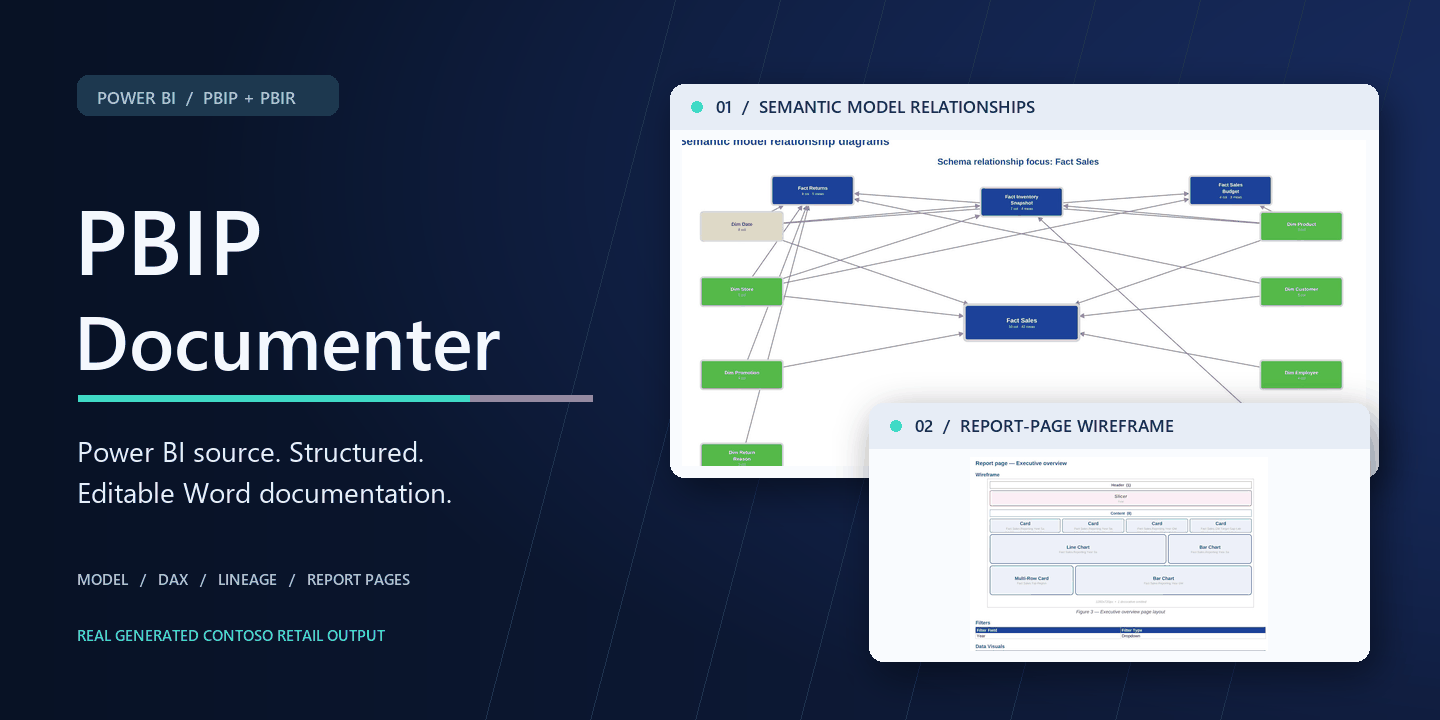
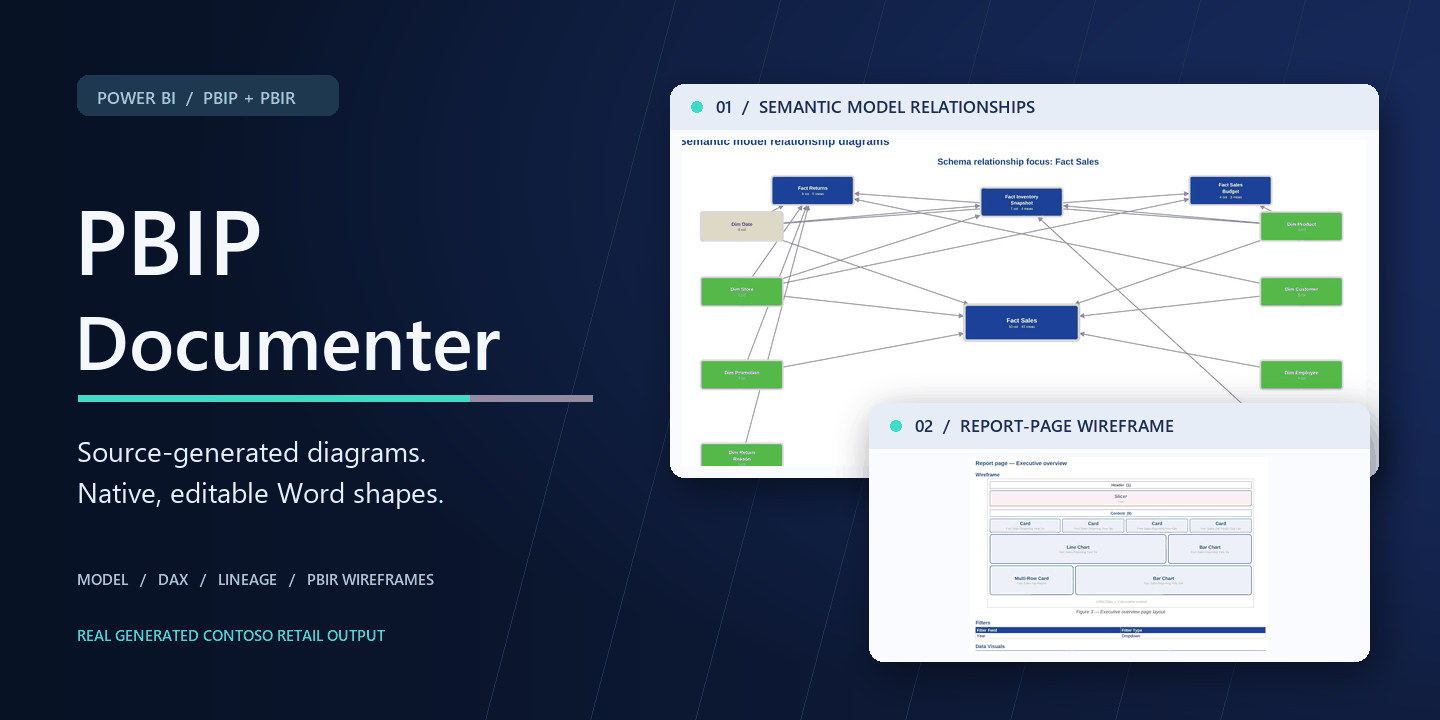
Lead with native editable Power BI diagrams and verified capabilities (#26)

Changed region(s): [[0.0312, 0.6111, 0.3125, 0.6417], [0.0625, 0.6722, 0.3125, 0.7028], [0.2188, 0.7944, 0.3125, 0.825]]

diff --git a/scripts/ci_docx_generation_smoke.py b/scripts/ci_docx_generation_smoke.py
@@ -6,6 +6,7 @@ import argparse
 import subprocess
 import sys
 import tempfile
+import xml.etree.ElementTree as ET
 from pathlib import Path
 from zipfile import ZipFile
 
@@ -21,6 +22,26 @@ def _assert_valid_docx(path: Path) -> None:
     with ZipFile(path) as archive:
         assert archive.testzip() is None, f"Corrupt DOCX archive: {path}"
         assert "word/document.xml" in archive.namelist()
+        xml_root = ET.fromstring(archive.read("word/document.xml"))
+        # Public fixture must contain real editable DrawingML groups/shapes,
+        # rather than exporting static screenshots of schema/page wireframes.
+        namespaces = {
+            "wpg": "http://schemas.microsoft.com/office/word/2010/wordprocessingGroup",
+            "wps": "http://schemas.microsoft.com/office/word/2010/wordprocessingShape",
+            "a": "http://schemas.openxmlformats.org/drawingml/2006/main",
+        }
+        diagrams = xml_root.findall(".//wpg:wgp", namespaces)
+        shapes = xml_root.findall(".//wps:wsp", namespaces)
+        starts = xml_root.findall(".//a:stCxn", namespaces)
+        ends = xml_root.findall(".//a:endCxn", namespaces)
+        assert len(diagrams) >= 3, f"Missing native Word diagram groups: {path}"
+        assert len(shapes) >= 50, f"Expected editable Word shapes, not rasterized screenshots: {path}"
+        assert len(starts) >= 10 and len(starts) == len(ends), (
+            f"Missing or unmatched DrawingML connector endpoints: {path}"
+        )
+        assert not any(f.startswith("word/media/") for f in archive.namelist()), (
+            f"Public Contoso fixture unexpectedly embeds raster images: {path}"
+        )
 
     doc = Document(path)
     from docx.oxml.ns import qn

diff --git a/scripts/build_readme_hero.py b/scripts/build_readme_hero.py
@@ -108,9 +108,9 @@ def create(root: Path = BASE) -> dict[str, Path]:
     draw.text((74, 287), "Documenter", font=typography(76, True), fill=TEXT)
     draw.rectangle((78, 395, 470, 401), fill=MINT)
     draw.rectangle((470, 395, 592, 401), fill=PINK)
-    draw.text((77, 431), "Power BI source. Structured.", font=typography(28), fill=(229, 239, 250))
-    draw.text((77, 472), "Editable Word documentation.", font=typography(28), fill=(229, 239, 250))
-    draw.text((77, 568), "MODEL   /   DAX   /   LINEAGE   /   REPORT PAGES",
+    draw.text((77, 431), "Source-generated diagrams.", font=typography(28), fill=(229, 239, 250))
+    draw.text((77, 472), "Native, editable Word shapes.", font=typography(28), fill=(229, 239, 250))
+    draw.text((77, 568), "MODEL   /   DAX   /   LINEAGE   /   PBIR WIREFRAMES",
               font=typography(15, True), fill=MUTED)
     draw.text((77, 624), "REAL GENERATED CONTOSO RETAIL OUTPUT", font=typography(15, True), fill=MINT)
 

diff --git a/README.md b/README.md
@@ -2,7 +2,7 @@
   <img src="docs/images/hero-product.png" alt="PBIP Documenter — semantic-model relationships and report-page wireframes taken from real generated Word documents" width="100%">
 </p>
 
-<p align="center"><strong>Turn Power BI project files into useful, editable Word documentation.</strong></p>
+<p align="center"><strong>Generate complete Power BI specifications with editable native Word diagrams ? not flattened pictures.</strong></p>
 <p align="center">
   <a href="https://github.com/analienx/pbidocumenter/actions/workflows/ci.yml"><img alt="CI" src="https://github.com/analienx/pbidocumenter/actions/workflows/ci.yml/badge.svg"></a>
   <a href="LICENSE"><img alt="Apache-2.0 license" src="https://img.shields.io/badge/license-Apache--2.0-304C70"></a>
@@ -16,9 +16,22 @@
 
 ---
 
-## The documentation you wish every Power BI report came with
+## Reverse-engineer Power BI into editable technical documentation
 
-Give PBIP Documenter a local **PBIP/PBIR project**. It reads the semantic model and report definition, then builds a structured Microsoft Word specification—with **model relationships, DAX, Power Query, report-page wireframes and handover details**. No tenant connection or Power BI Desktop interaction is required for the core workflow.
+Point PBIP Documenter at a local **PBIP / PBIR / TMDL project**. It reads the semantic model and report structure, then builds a Word specification with **diagrams generated from your actual source**. No Power BI Desktop or tenant connection is required for core generation.
+
+### Six defining capabilities
+
+| Capability | What you get |
+| :-- | :-- |
+| **Native editable Word diagrams** | **DrawingML shapes, connectors and text**, not flattened PNGs: model relationships, source lineage and report-page wireframes. |
+| **Data lineage and model architecture** | Source ? staging queries ? loaded tables ? report usage, plus relationships, columns, roles and partitions. |
+| **DAX and Power Query documentation** | Measure inventories, DAX expressions, M transformations, hierarchies and calculation groups where present; expanded source code in full mode. |
+| **Report reverse-engineering** | PBIR-derived page wireframes, visual types/positions, field bindings, filters, bookmarks and navigation actions. |
+| **Technical quality insights** | Categorized technical observations, warnings and review opportunities for maintenance and handover. |
+| **Agent-ready Word handover** | Concise/full DOCX with native headings, tables, linked contents and clearly labeled owner-confirmation fields; source-read-only CLI. |
+
+**?Dynamic? means generated from the PBIP source at runtime.** In the resulting Word document, diagrams are editable native shapes and connectors?not screenshot images. The DOCX is a snapshot, **not a live-synced connection** to future PBIP changes. [How DrawingML works](docs/ARCHITECTURE.md#native-word-diagrams--not-static-images).
 
 ## Explore an actual generated document
 
@@ -32,7 +45,9 @@ Open the complete example before installing anything. All three files were gener
 | **Semantic-model relationships** | **Report-page layout and bindings** |
 | :--: | :--: |
 | [![Cropped detail from generated Word model-relationship page](docs/images/showcase/detail-lineage.jpg)](docs/images/showcase/model-lineage.jpg) | [![Cropped detail from generated Word report-page wireframe](docs/images/showcase/detail-wireframe.jpg)](docs/images/showcase/report-wireframe.jpg) |
-| *Actual DOCX output · model lineage* | *Actual DOCX output · PBIR wireframe, not a live dashboard screenshot* |
+| *Native Word shapes and relationship connectors* | *Native Word shapes and PBIR-derived layout* |
+
+**These images are only GitHub previews.** The [actual DOCX](docs/samples/Contoso-Retail-full.docx) has native Word DrawingML diagrams. Its generated Contoso example contains **10 grouped diagrams, 266 native shape elements, 78 connector endpoint pairs and zero embedded image files**. The installed-package CI now verifies these structures.
 
 <sub>Source-based acceptance for this example: **12 tables · 55 measures · 19 relationships · 5 pages · 54 visuals**. Crops above come directly from the original generated document pages. [Source and screenshot evidence](docs/EXAMPLES.md#what-was-independently-checked) · [File checksums](docs/samples/README.md).</sub>
 
@@ -49,16 +64,7 @@ That's it: open the editable `design-specification.docx` in Word. Prefer a short
 
 > **Distribution:** Install directly from GitHub as shown above. A PyPI package for this project has not been verified, so this README does not claim a published PyPI release. The [permanent samples](docs/samples/README.md) were generated from a specifically recorded commit, and output may evolve on `main`.
 
-## What you get
-
-| Document section | Based on |
-| :-- | :-- |
-| **Model & data architecture** — tables, columns, measures, relationships, partitions, roles and lineage | TMDL and model files |
-| **Calculations & transformations** — DAX inventories, plus full-code detail in full mode | DAX and Power Query / M |
-| **Report design** — page layouts, visual types, filters, bookmarks and bindings | PBIR report definition |
-| **Operations & handover** — support structure, technical observations and explicit confirmation fields | Extracted facts + labeled suggestions |
-
-**No invented business requirements.** Project source alone cannot establish purpose, owner, classification, refresh SLA or real tenant access. The generated specification distinguishes extracted evidence from items to confirm.
+**Source facts, not invented requirements:** ownership, scope, classification, refresh SLAs and tenant-level access are marked for confirmation whenever the PBIP files cannot establish them.
 
 ## Built for developers and AI agents
 
@@ -79,8 +85,8 @@ Return the exact document path and any limitations.
 flowchart LR
     A["PBIP / PBIR / TMDL"] --> B["Source extraction"]
     B --> C["Model and report inventory"]
-    C --> D["Word document renderer"]
-    D --> E["Editable DOCX"]
+    C --> D["Native DrawingML diagrams<br/>and Word renderer"]
+    D --> E["Editable DOCX<br/>model ? lineage ? wireframes"]
 ```
 
 Core generation is **local and read-only**. GitHub CI separately exercises the **installed wheel**, compares source inventories and renders documents to PDF for page-level evidence. The PDF renderer is LibreOffice, so it does **not** certify exact Microsoft Word pagination. [Architecture, trust boundaries and acceptance](docs/ARCHITECTURE.md).

diff --git a/docs/ARCHITECTURE.md b/docs/ARCHITECTURE.md
@@ -19,7 +19,7 @@ flowchart TB
         D["Extract + normalize<br/>copiloter.py"]
         E["CLI orchestration<br/>pbip_documenter/cli.py"]
         F["Specification assembly<br/>services/document_service.py"]
-        G["Native Word components<br/>docx_render/"]
+        G["Editable DrawingML diagrams<br/>and native Word components"]
         E --> D
         D --> F
         F --> G
@@ -44,11 +44,21 @@ The diagram reflects concrete code paths in the current repository; it does not 
 | Word presentation | [`docx_render/`](../pbip_documenter/docx_render/) | Native Word styles, tables, navigation, pagination hints and wireframes |
 | Acceptance | [`ci.yml`](../.github/workflows/ci.yml) | Validates installed CLI, generation and source-to-DOCX consistency |
 
-### Why Word, not a screenshot-based document?
+## Native Word diagrams ? not static images
 
-The output is **editable OOXML/DOCX**. Headings, tables, formulas and supporting sections remain Word content rather than being flattened into image pages. Relationship and page-wireframe diagrams are inserted for fast orientation; the underlying source inventories remain available separately.
+**A core differentiator:** the diagrams are **constructed programmatically from actual PBIP metadata** and written as **grouped Word DrawingML objects**. [\`diagrams.py\`](../pbip_documenter/docx_render/diagrams.py) builds \`wpg:wgp\` groups containing \`wps:wsp\` shapes, text boxes and connector definitions. This differs fundamentally from generating a screenshot/PNG and inserting it into a Word page.
 
-The generated document is **not** a recreation of the live Power BI report. A PBIR wireframe describes visual type, geometry and bindings; it does not represent actual rendered dataset values or claim to replace Power BI Desktop.
+| Diagram | Source and dynamic generation | Word representation |
+| :-- | :-- | :-- |
+| **Semantic-model relationships** | [\`schema.py\`](../pbip_documenter/analysis/schema.py) selects connected tables and relationships, computes focus layouts, then creates actual nodes and attached connectors | Native grouped DrawingML shapes and relationship lines |
+| **End-to-end data lineage** | [\`lineage.py\`](../pbip_documenter/analysis/lineage.py) traces data sources, staging queries, loaded tables and report-page usage where discoverable | Native Word shapes, labels and connectors |
+| **Report-page wireframes** | [\`wireframe.py\`](../pbip_documenter/docx_render/wireframe.py) derives visual zones, types and proportional layouts from PBIR geometry | Native Word shapes and text, not a pasted page capture |
+
+**Editable means the diagram consists of Word drawing objects.** Users can modify their shapes/text/position in a compatible Word editor (some edits may require selecting or ungrouping objects). **Dynamic means regenerated when the generator is run again.** It does *not* mean live data interaction, automatic syncing from the PBIP after document creation, or a live Power BI dashboard.
+
+The public [full Contoso DOCX](samples/Contoso-Retail-full.docx) currently contains **10 grouped diagrams, 266 native Word shape elements and 78 connector endpoint pairs**, and no embedded media files. [Installed-wheel generation CI](../scripts/ci_docx_generation_smoke.py) checks diagram structures so this feature cannot quietly regress to flattened images.
+
+The README's JPG/PNG illustrations are *previews made by PDF-rendering the Word document*. The **DOCX itself retains native shapes**. The wireframe conveys visual types and bindings, not live dataset values or pixel-identical report renders.
 
 ## Acceptance flow
 

diff --git a/docs/EXAMPLES.md b/docs/EXAMPLES.md
@@ -2,7 +2,7 @@
 
 [← Overview](../README.md) · [Download sample files](samples/README.md) · [How it works](ARCHITECTURE.md)
 
-**One fictional Power BI project. Two editable Word specifications. Real source-matched output.** All examples on this page come from the Contoso Retail PBIP bundled in the repository—not hand-built demonstration pages.
+**One fictional Power BI project. Two editable Word specifications. Diagrams generated as native Word drawing objects ? not pictures.** All examples on this page come from the Contoso Retail PBIP bundled in the repository—not hand-built demonstration pages.
 
 | Open the result | Get the editable Word document |
 | :-- | :-- |
@@ -13,7 +13,7 @@
 
 [![Detail of the real Word semantic-model relationship diagram](images/showcase/detail-lineage.jpg)](images/showcase/model-lineage.jpg)
 
-*Actual model relationship diagram, cropped for readability. [View the original full page](images/showcase/model-lineage.jpg).*
+*GitHub preview cropped from an actual document render. In the DOCX, the relationship diagram consists of native editable DrawingML shapes and connectors, not this JPEG. [View the original full page](images/showcase/model-lineage.jpg).*
 
 The document describes semantic-model structure and relationships. It doesn't invent table definitions or ask you to reconstruct the model manually.
 
@@ -21,7 +21,11 @@ The document describes semantic-model structure and relationships. It doesn't in
 
 [![Detail of the real generated PBIR executive overview wireframe](images/showcase/detail-wireframe.jpg)](images/showcase/report-wireframe.jpg)
 
-*Actual report-page wireframe, cropped for readability. [View the full page with visual bindings and filters](images/showcase/report-wireframe.jpg). A PBIR wireframe is not a screenshot of a rendered Power BI dashboard.*
+*GitHub preview cropped from an actual document render. In Word, the wireframe consists of editable DrawingML shapes built from PBIR page geometry. [View the full page with visual bindings and filters](images/showcase/report-wireframe.jpg). It is not a screenshot of a live Power BI dashboard.*
+
+### What makes these diagrams different?
+
+**Source-driven generation:** on each invocation, PBIP Documenter recalculates model, lineage and page-layout diagrams from the current project. **Native Word output:** the public example's DOCX has 10 grouped diagrams, 266 shape elements and 78 connector endpoint pairs; no image files are embedded. **Editable, not live-synced:** you can adjust the Word drawing objects; rerun the generator to reflect later PBIP changes. [Inspect the real DOCX](samples/Contoso-Retail-full.docx) or [the implementation](ARCHITECTURE.md#native-word-diagrams--not-static-images).
 
 ## 03 / See the engineering detail
 

diff --git a/docs/AGENT_WORKFLOW.md b/docs/AGENT_WORKFLOW.md
@@ -16,9 +16,10 @@ You are documenting the Power BI project at:
    pbip-documenter "<ABSOLUTE_PATH_TO_PBIP_PROJECT>"
      --mode full --output "<OUTPUT_DIRECTORY>/design-specification.docx"
 3. Treat a nonzero exit code or missing output as failure.
-4. Verify the DOCX opens and has substantive section headings, a
-   semantic-model inventory, measures, relationships and report pages
-   corresponding to the input.
+4. Verify the DOCX opens, contains substantive headings and source
+   inventories, and includes native Word DrawingML shapes/connectors
+   for model relationships, lineage and PBIR page wireframes. Don't
+   mistake README preview JPGs for embedded diagram images.
 5. Report extracted facts separately from generated recommendations
    and human-confirmation fields. Never invent scope, owners, RLS,
    classification, business impact or refresh SLAs.
@@ -47,7 +48,8 @@ This installs from the current GitHub source. The sample screenshots and [perman
 | :--- | :--- |
 | **Source integrity** | Input PBIP/PBIR/TMDL files are not modified |
 | **Command** | Installed `pbip-documenter` exits successfully |
-| **DOCX** | Valid ZIP/OOXML, nonempty heading structure, substantive tables and diagrams |
+| **DOCX** | Valid ZIP/OOXML, nonempty heading structure and substantive technical tables |
+| **Editable diagrams** | Native OOXML DrawingML groups, shapes and connectors?not flattened report screenshots; regenerate by rerunning the CLI after PBIP changes |
 | **Completeness** | Table, measure, relationship, page and visual counts are consistent with source |
 | **Business certainty** | Suggested requirements and unverified metadata are explicitly flagged |
 | **Privacy** | Source projects, DOCX files and logs remain in approved local/private locations |

diff --git a/CHANGELOG.md b/CHANGELOG.md
@@ -2,6 +2,10 @@
 
 ## Unreleased
 
+- Made dynamically generated **native editable Word diagrams** (schema relationships, source lineage and PBIR-derived wireframes) a prominent product feature, distinct from screenshot previews.
+- Documented the actual DrawingML shapes/connectors architecture and the saved-document snapshot boundary; strengthened installed-wheel CI to prevent regressions to static embedded diagram images.
+
+
 - Refined GitHub landing experience: clearer value proposition, streamlined install flow, readable source-derived image excerpts, consistent editorial hierarchy and direct permanent example downloads.
 - Added full/concise authentic Contoso Word files and a browsable PDF with file hashes, linked to the exact installed-wheel CI run.
 - Expanded reproducible imagery and CI provenance guards to include hero art, cropped evidence, Word/PDF samples and the source PBIP tree.

diff --git a/docs/samples/README.md b/docs/samples/README.md
@@ -2,7 +2,7 @@
 
 [← Real output gallery](../EXAMPLES.md) · [← Product overview](../../README.md)
 
-These are **actual PBIP Documenter outputs**, permanently included in this repository. The input is the fictional [Contoso Retail PBIP project](../../examples/contoso-retail/), not a customer report.
+These are **actual PBIP Documenter outputs**, permanently included in this repository. **The relationship, lineage and PBIR wireframe diagrams are native editable Word shapes and connectors, not embedded picture files.** The input is the fictional [Contoso Retail PBIP project](../../examples/contoso-retail/), not a customer report.
 
 | File | Why download it | Size |
 | :-- | :-- | --: |

diff --git a/docs/images/README.md b/docs/images/README.md
@@ -2,7 +2,7 @@
 
 [← Example gallery](../EXAMPLES.md) · [← Repository](../../README.md)
 
-Everything here is traceable to actual generated Contoso Retail documentation.
+Everything here is traceable to actual generated Contoso Retail documentation. **The JPEG/PNG files are only GitHub preview assets: the Word generator builds native editable DrawingML diagrams rather than inserting these images into the DOCX.**
 
 | Asset | What you're viewing |
 | :-- | :-- |
